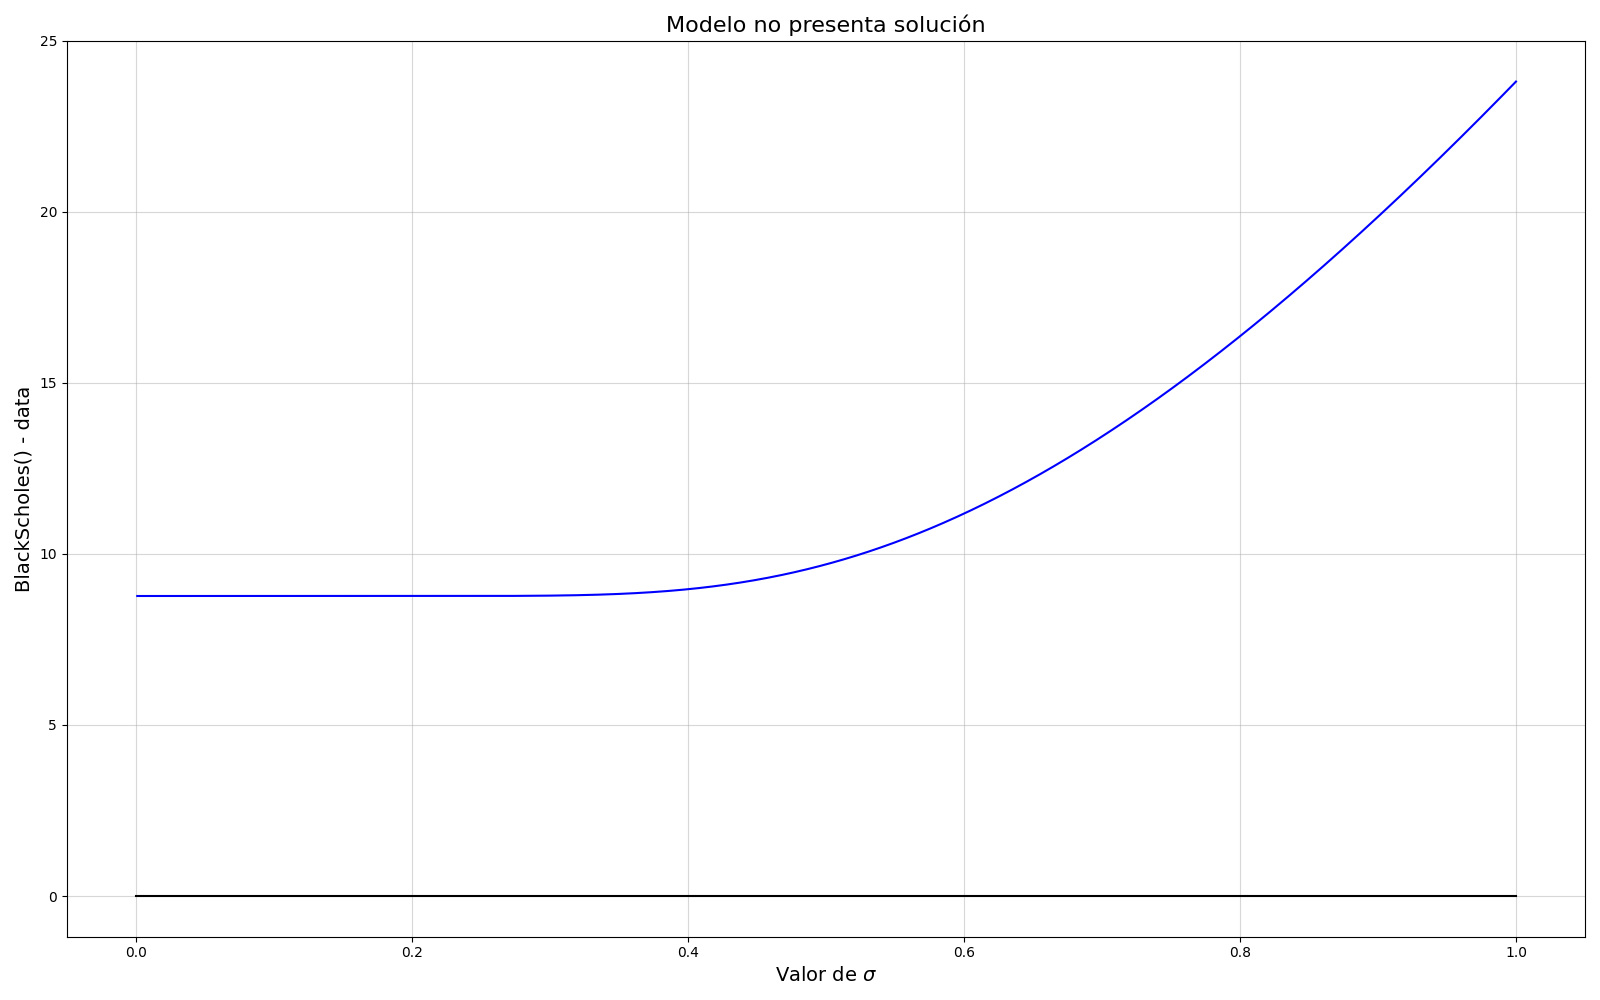
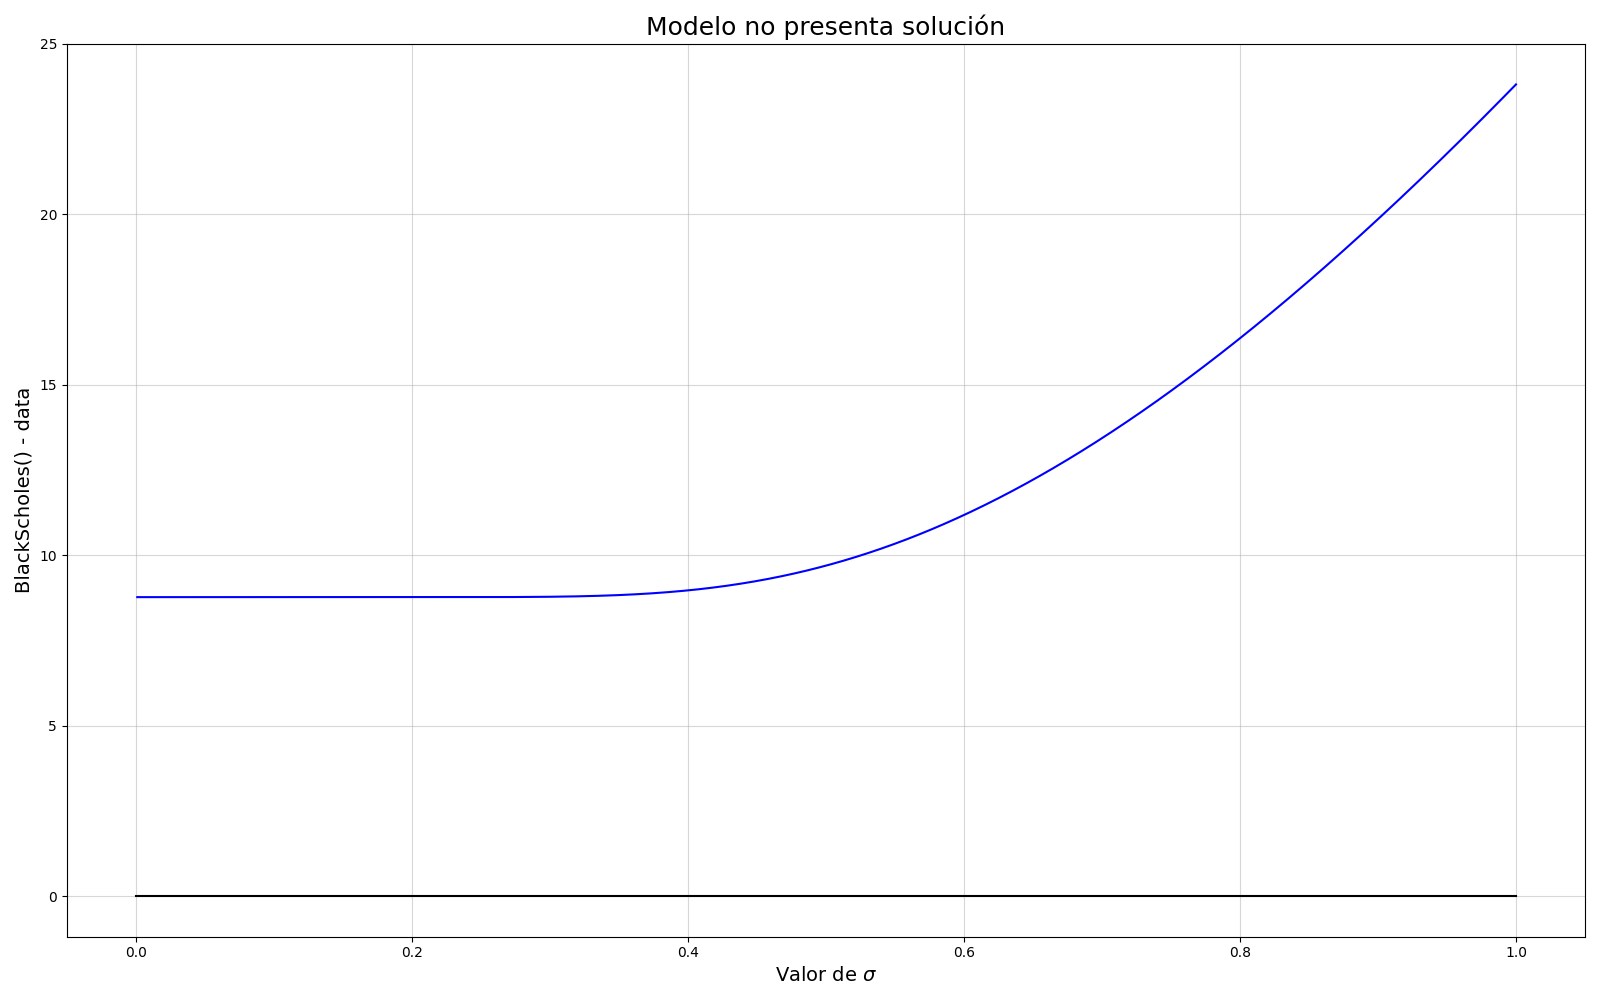
final changes before commenting

diff --git a/noSolution.py b/noSolution.py
@@ -30,9 +30,9 @@ plt.figure(figsize = (16,10))
 sigma = np.linspace(0.001, 1,1000)
 plt.plot(sigma, f(sigma, S, K, r, t, C0), 'b')
 plt.plot([0,1], [0,0], 'k')
-plt.title('Modelo no presenta solución', fontsize = 16)
+plt.title('Modelo no presenta solución', fontsize = 18)
 plt.xlabel('Valor de $\sigma$', fontsize = 14)
 plt.ylabel('BlackScholes() - data', fontsize =14)
 plt.grid(alpha = 0.5)
 plt.tight_layout()
-plt.savefig('noSolution.png')
+plt.savefig('graphs/noSolution.png')

diff --git a/generateGraph.py b/generateGraph.py
@@ -57,4 +57,4 @@ plt.grid(alpha = 0.5)
 plt.tight_layout()
 
 # #Guardo la figura en formato pdf para insertar en el README.
-plt.savefig('volatilityComparison.png')
+plt.savefig('graphs/volatilityComparison.png')
